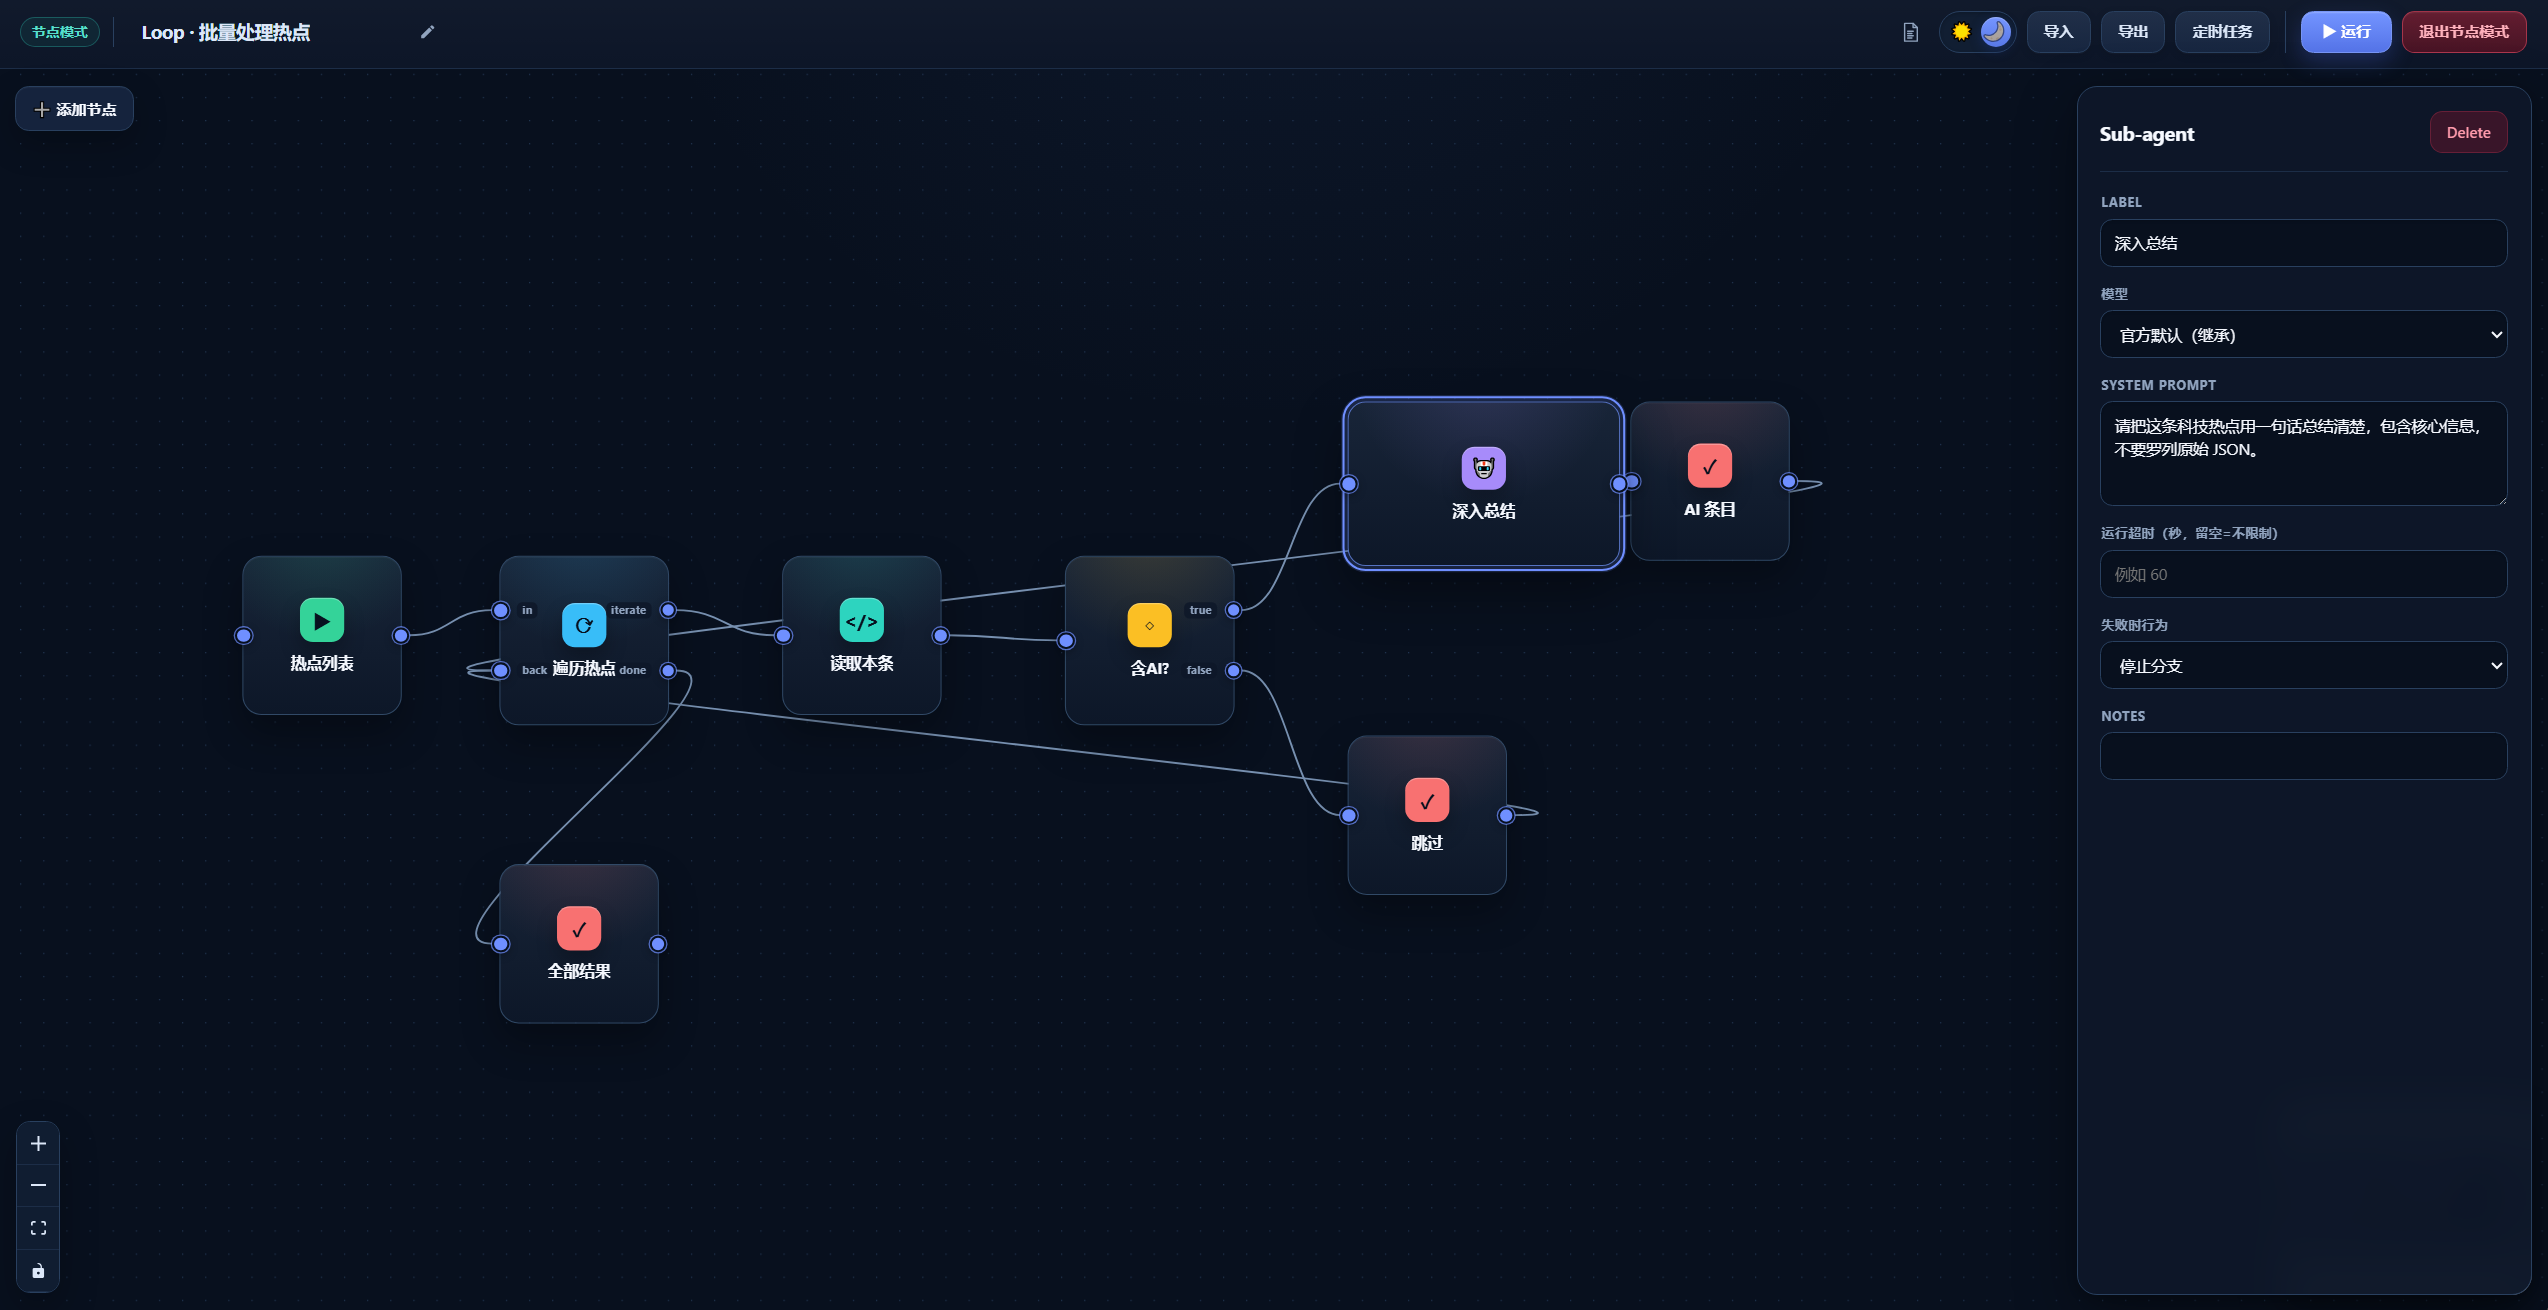
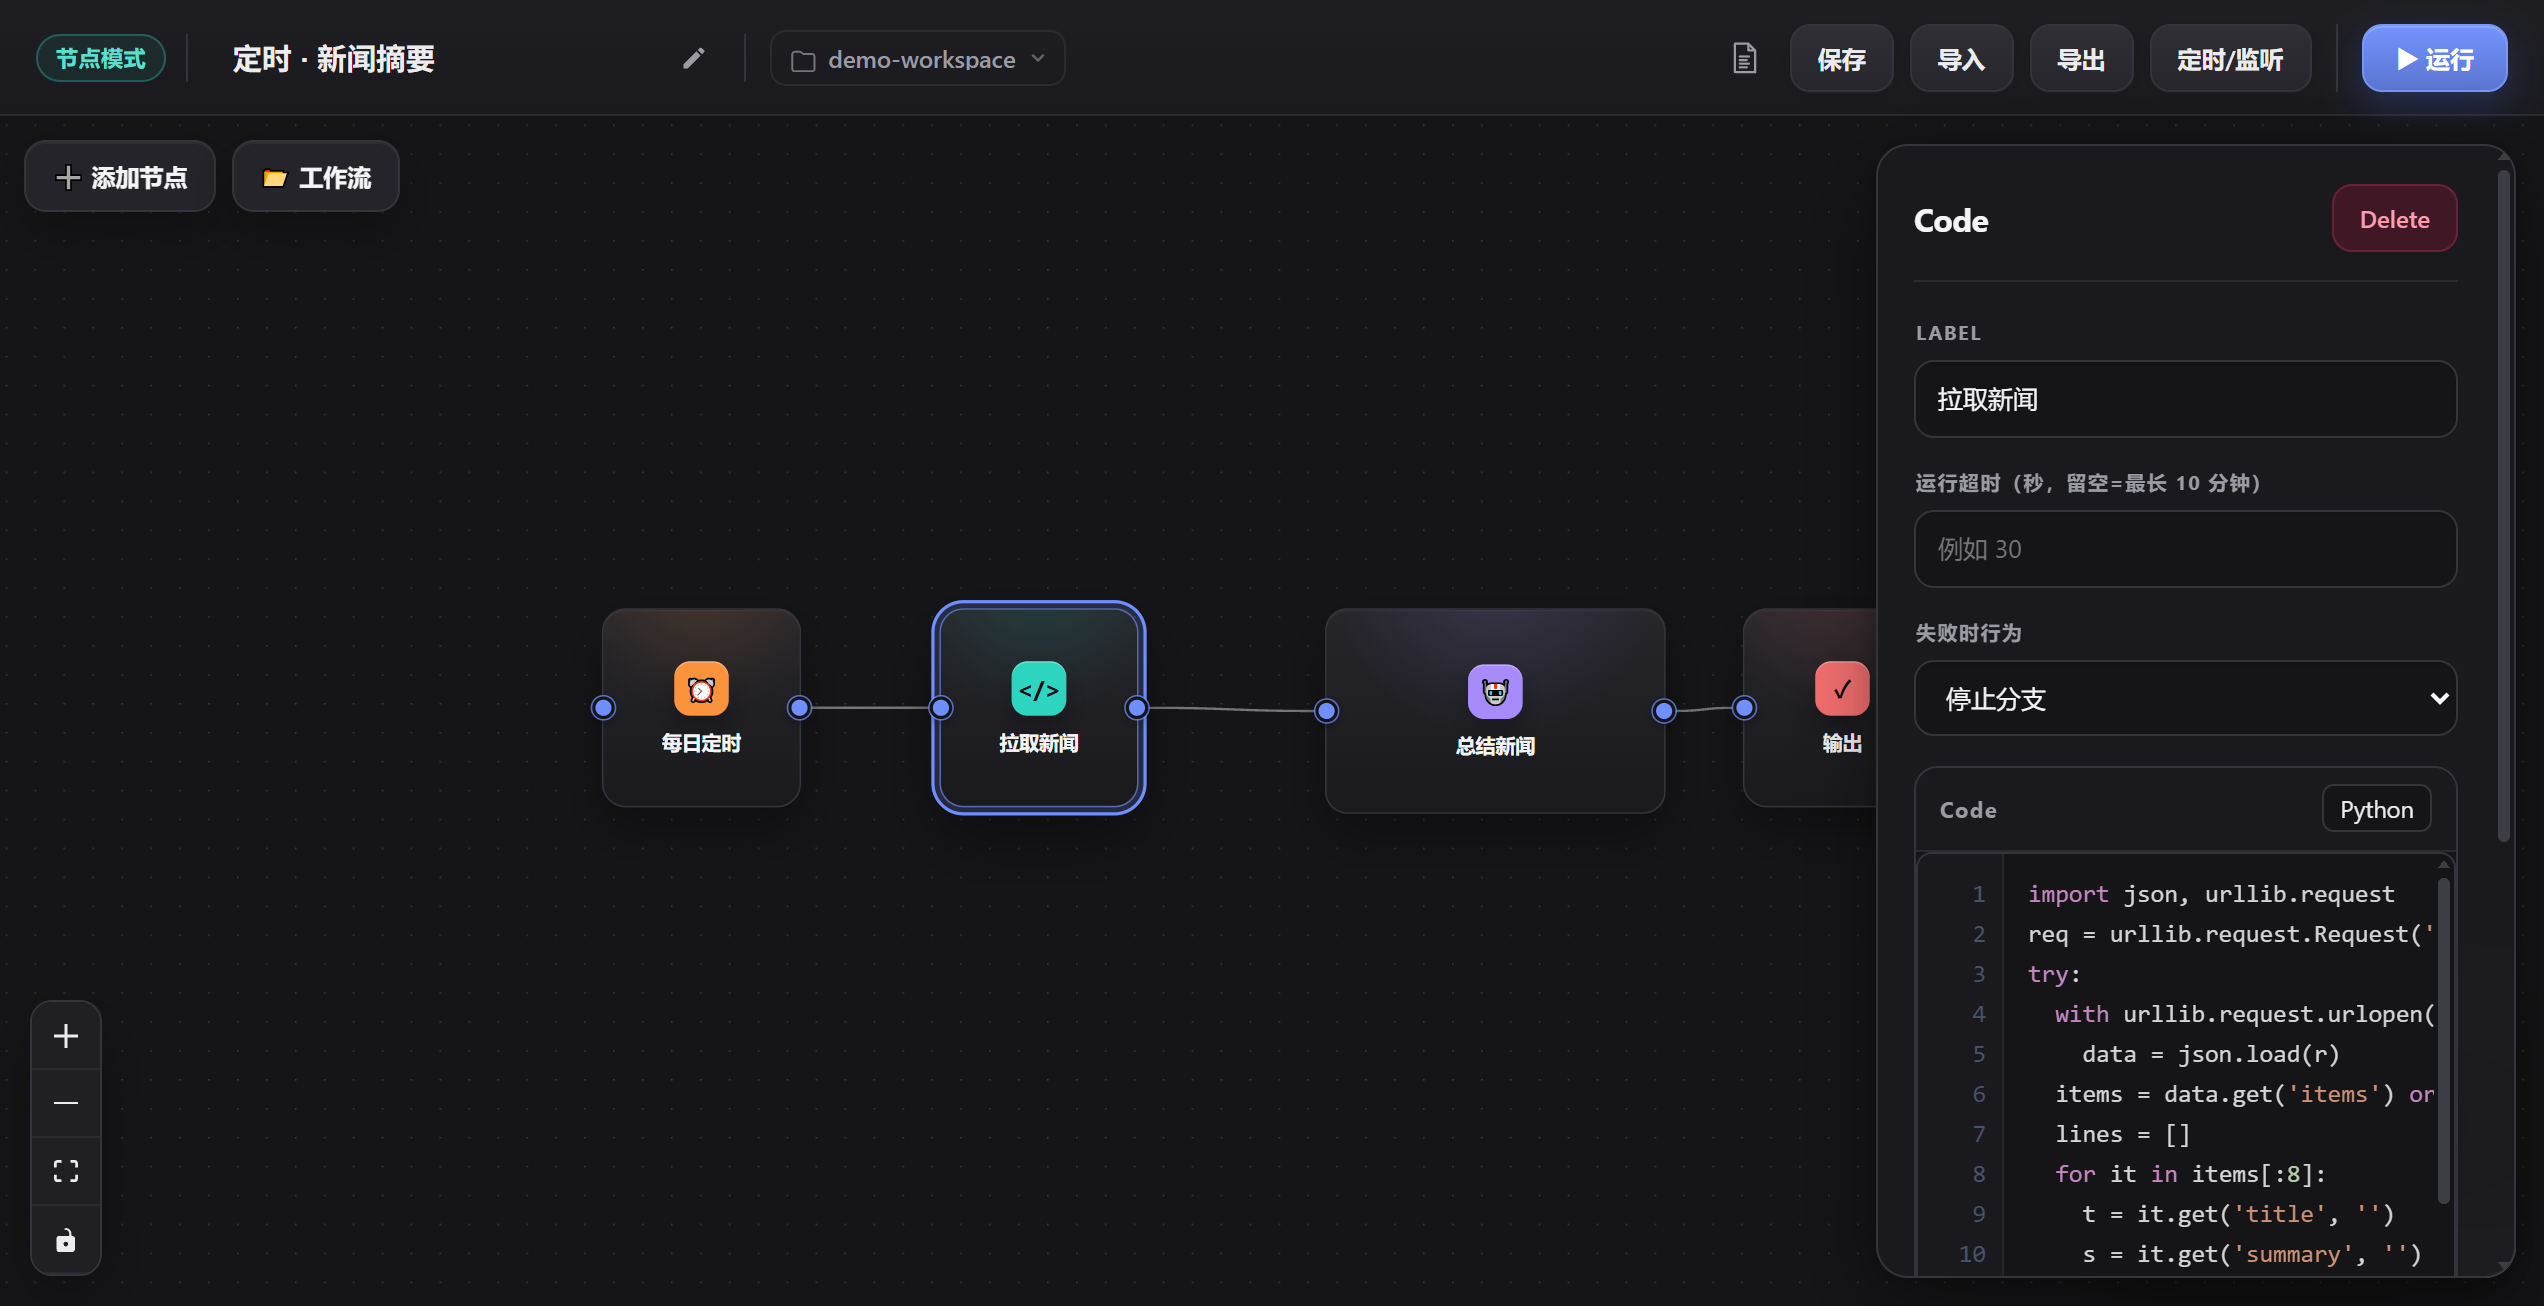
docs: refresh README screenshots to the current theme
- re-capture the palette, inspector and scheduled/ listen board shots from the
  current build with the host dark theme tokens (--dsw-alias-*) applied, so they
  match what ships instead of the old blue palette
- drop the now-stale note that the screenshots still show the earlier palette

diff --git a/README.md b/README.md
@@ -38,7 +38,7 @@ DSH Node Flow 是一个面向 [DeepSeek Harness（DSH）](https://github.com/dee
 
 ## 界面预览
 
-画布的配色**不自行定义**：底色、面板、文字、描边和强调色全部取自 DSH 主题的 `--dsw-alias-*` 变量，所以它和外壳在深色/浅色下都一致，换主题时也跟着变（下图是早期蓝色配色，仅供参考布局）。
+画布的配色**不自行定义**：底色、面板、文字、描边和强调色全部取自 DSH 主题的 `--dsw-alias-*` 变量，所以它和外壳在深色/浅色下都一致，换主题时也跟着变。
 
 ### 节点属性
 

diff --git a/README.en.md b/README.en.md
@@ -40,8 +40,7 @@ DSH Node Flow is a visual workflow plugin for [DeepSeek Harness (DSH)](https://g
 
 The canvas defines no palette of its own: background, surfaces, text, borders and accent all
 come from the host's `--dsw-alias-*` theme tokens, so it matches the shell in both light and
-dark and follows a theme change (the screenshots below still show the earlier blue palette and
-are kept for layout reference).
+dark and follows a theme change.
 
 ### Node properties
 
